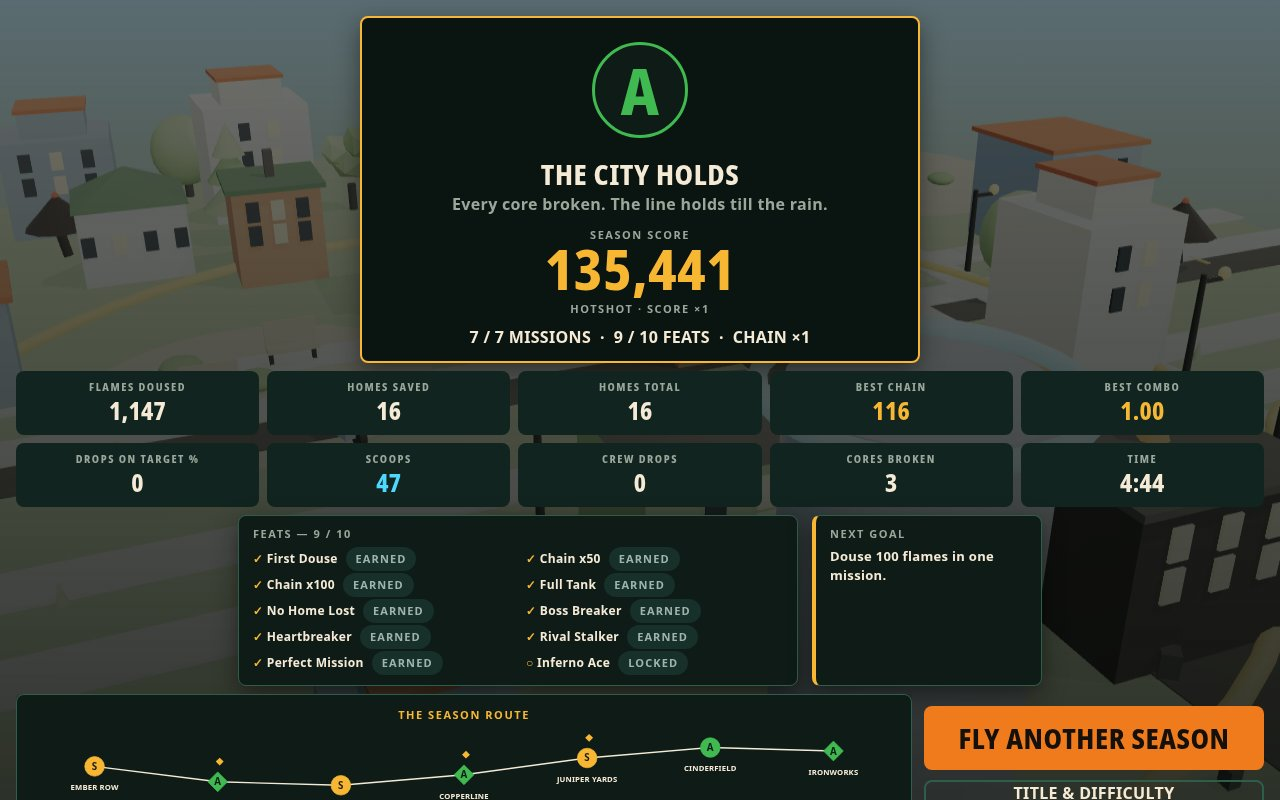
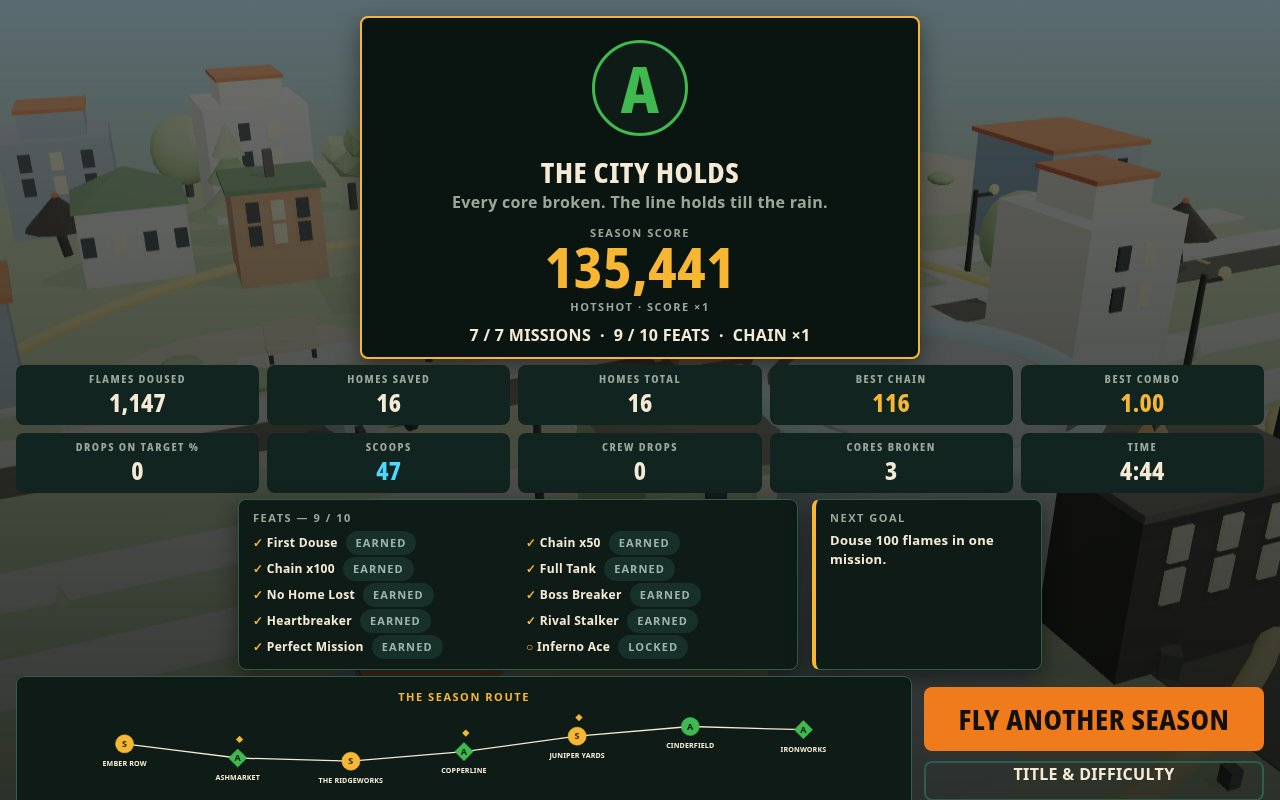
M7c4 play camera aim farther (cut dead foreground, band at centre)

diff --git a/game/src/scene3d.js b/game/src/scene3d.js
@@ -92,7 +92,7 @@ export function createScene(canvas) {
     // --- Camera per view ---
     if (view === 'play') {
       camera.position.set(state.hero.x + 7, 8, state.hero.z + 13);
-      camera.lookAt(state.hero.x, 1.5, state.hero.z - 4);
+      camera.lookAt(state.hero.x, 2.0, state.hero.z - 6);
     } else if (view === 'title') {
       camera.position.set(0, 8, 27);
       camera.lookAt(0, 7, 0);
